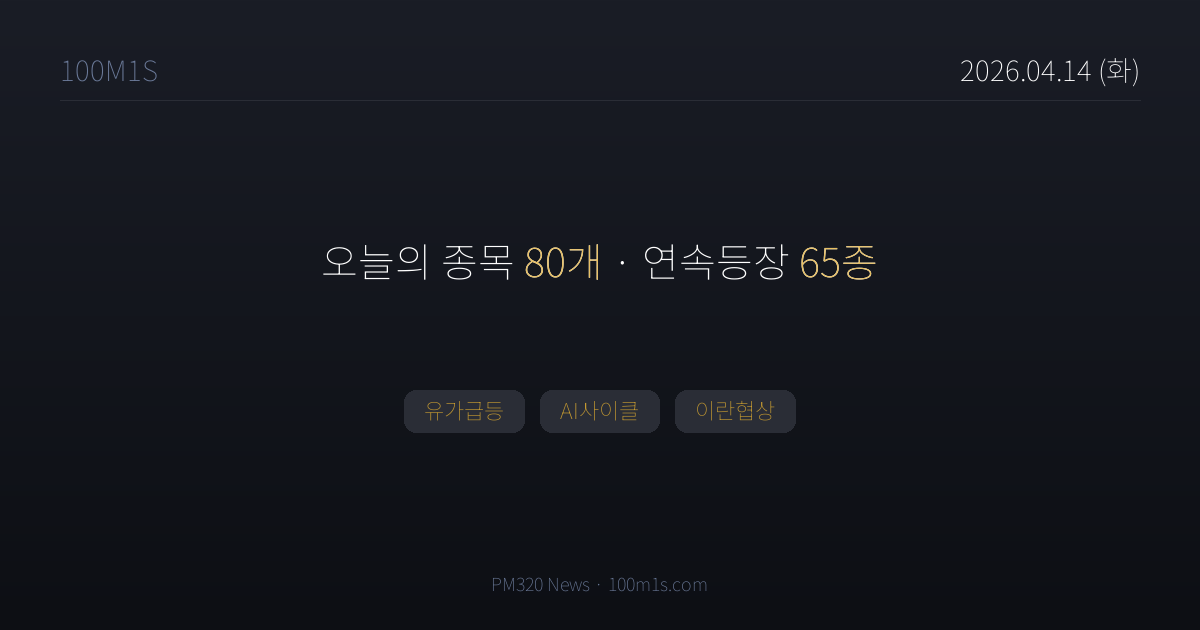
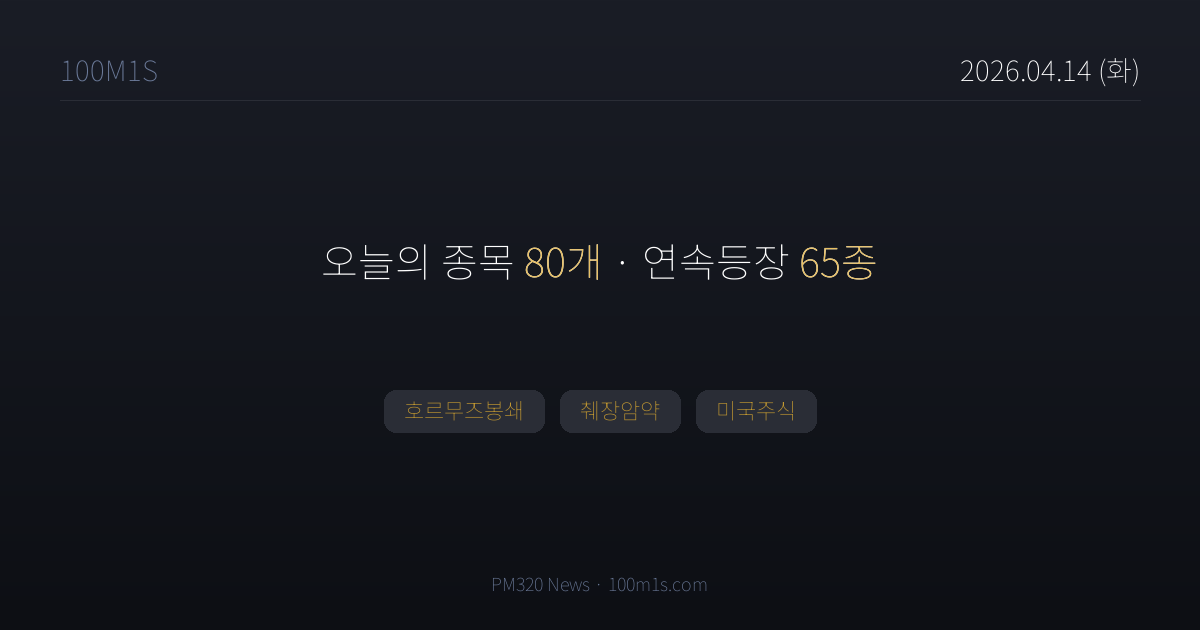
chore(news): 2026-04-14T03:13 pipeline

Changed region(s): [[0.3083, 0.6032, 0.6783, 0.6937]]

diff --git a/news/2026-04-14.html b/news/2026-04-14.html
@@ -4,7 +4,7 @@
 <meta charset="UTF-8">
 <title>4월 14일 (화) 뉴스 — 100M1S</title>
 <meta property="og:title" content="4월 14일 (화) · 종목 80개">
-<meta property="og:description" content="유가급등, AI사이클, 이란협상">
+<meta property="og:description" content="호르무즈봉쇄, 췌장암약, 미국주식">
 <meta property="og:image" content="https://100m1s.com/og/2026-04-14.png">
 <meta property="og:image:width" content="1200">
 <meta property="og:image:height" content="630">
